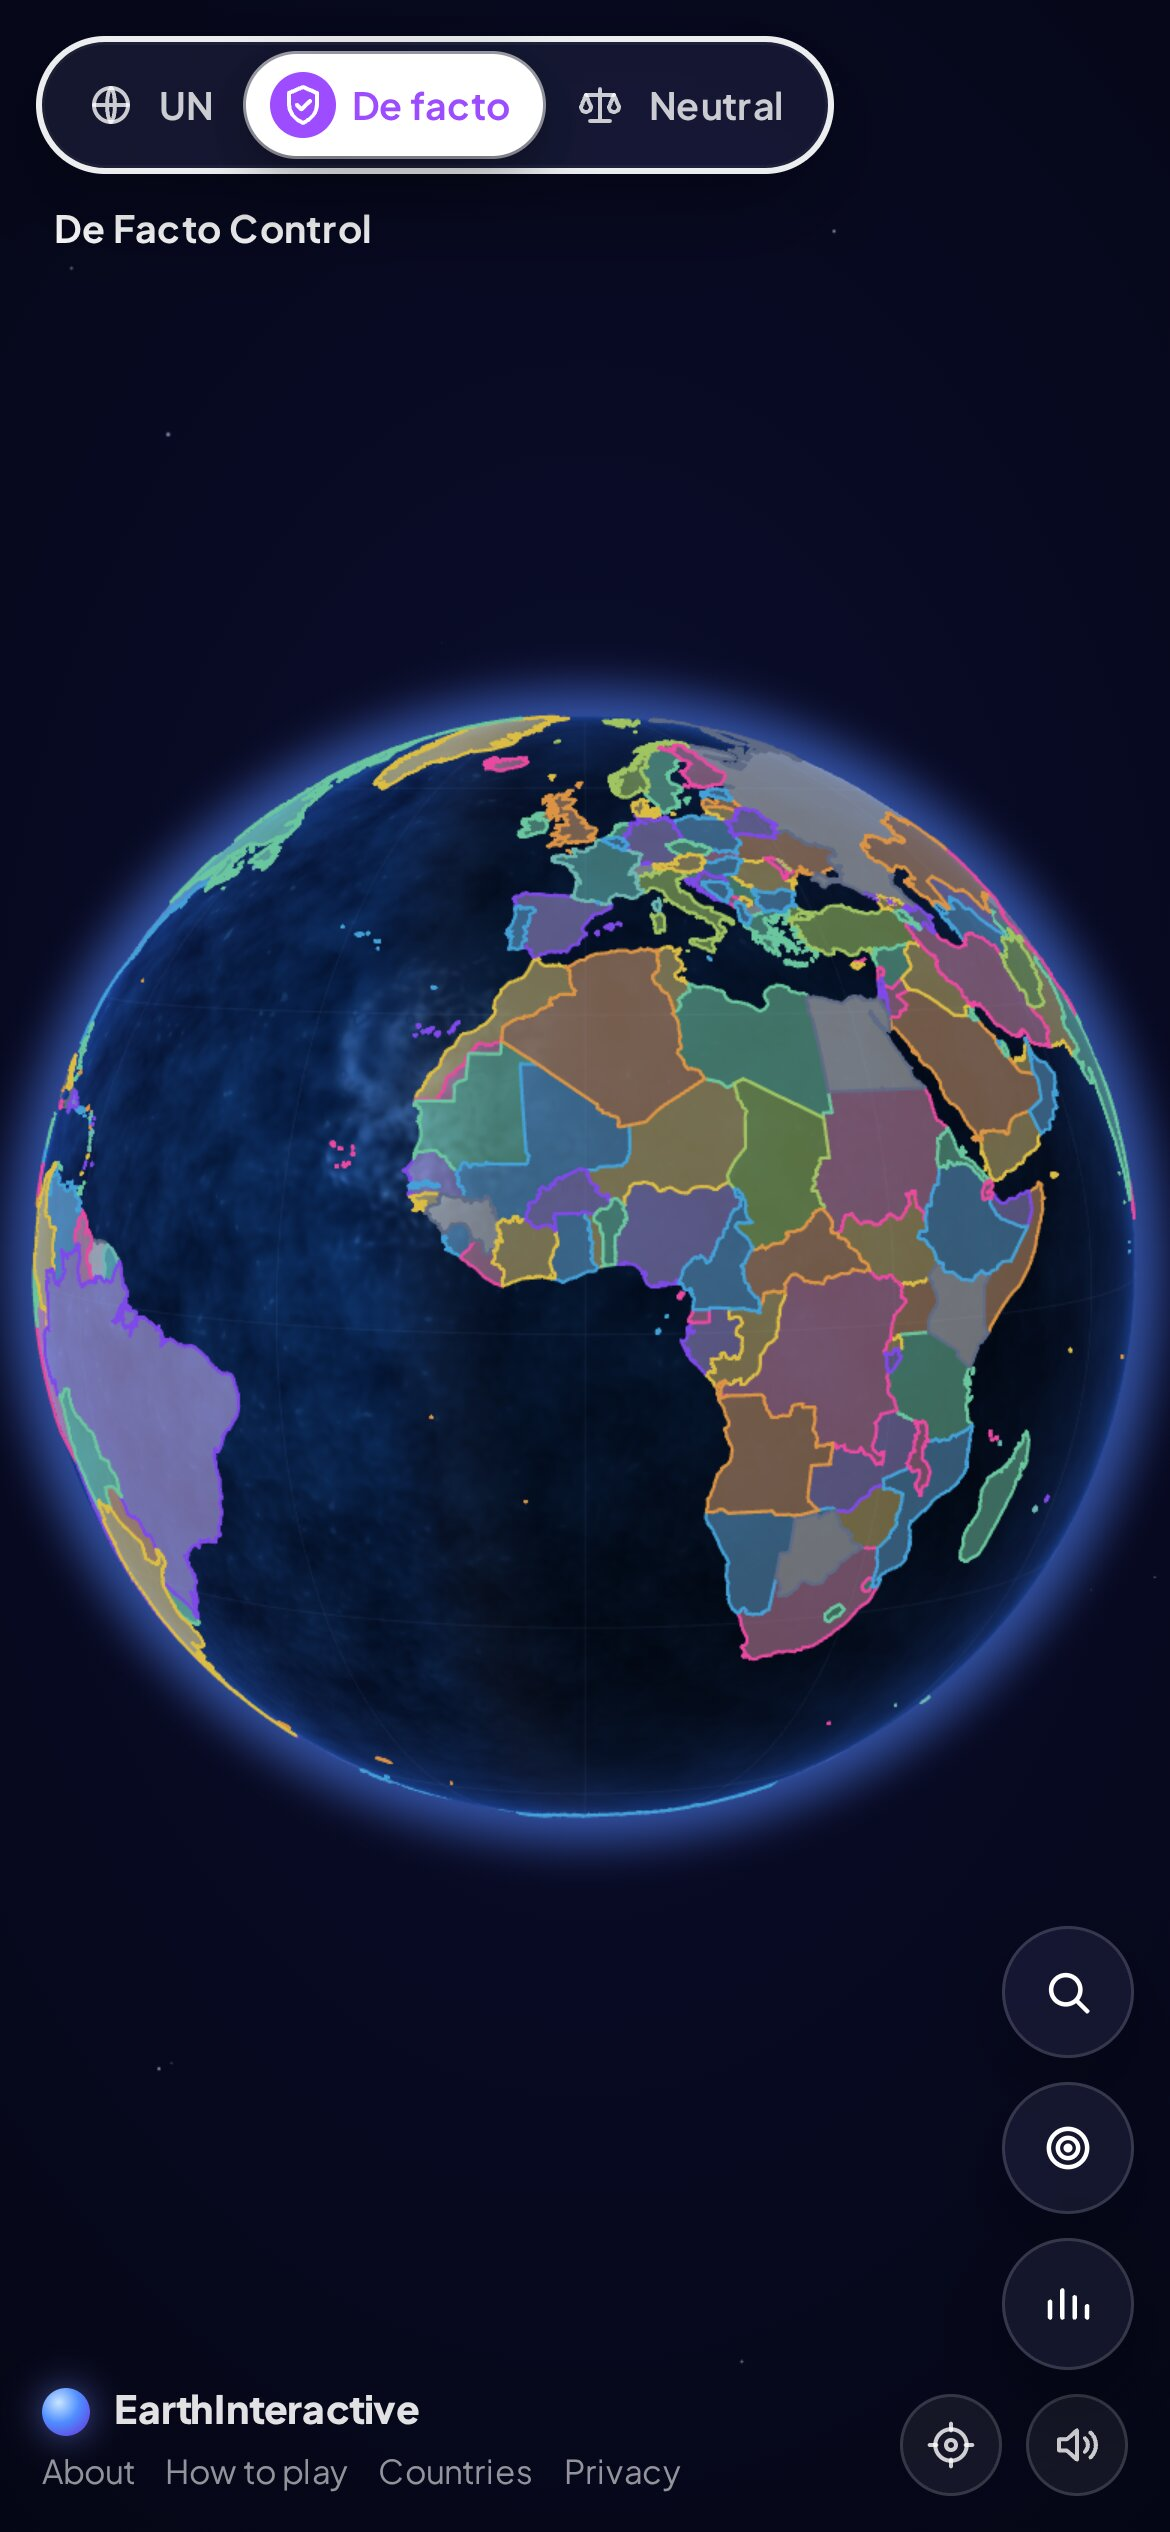
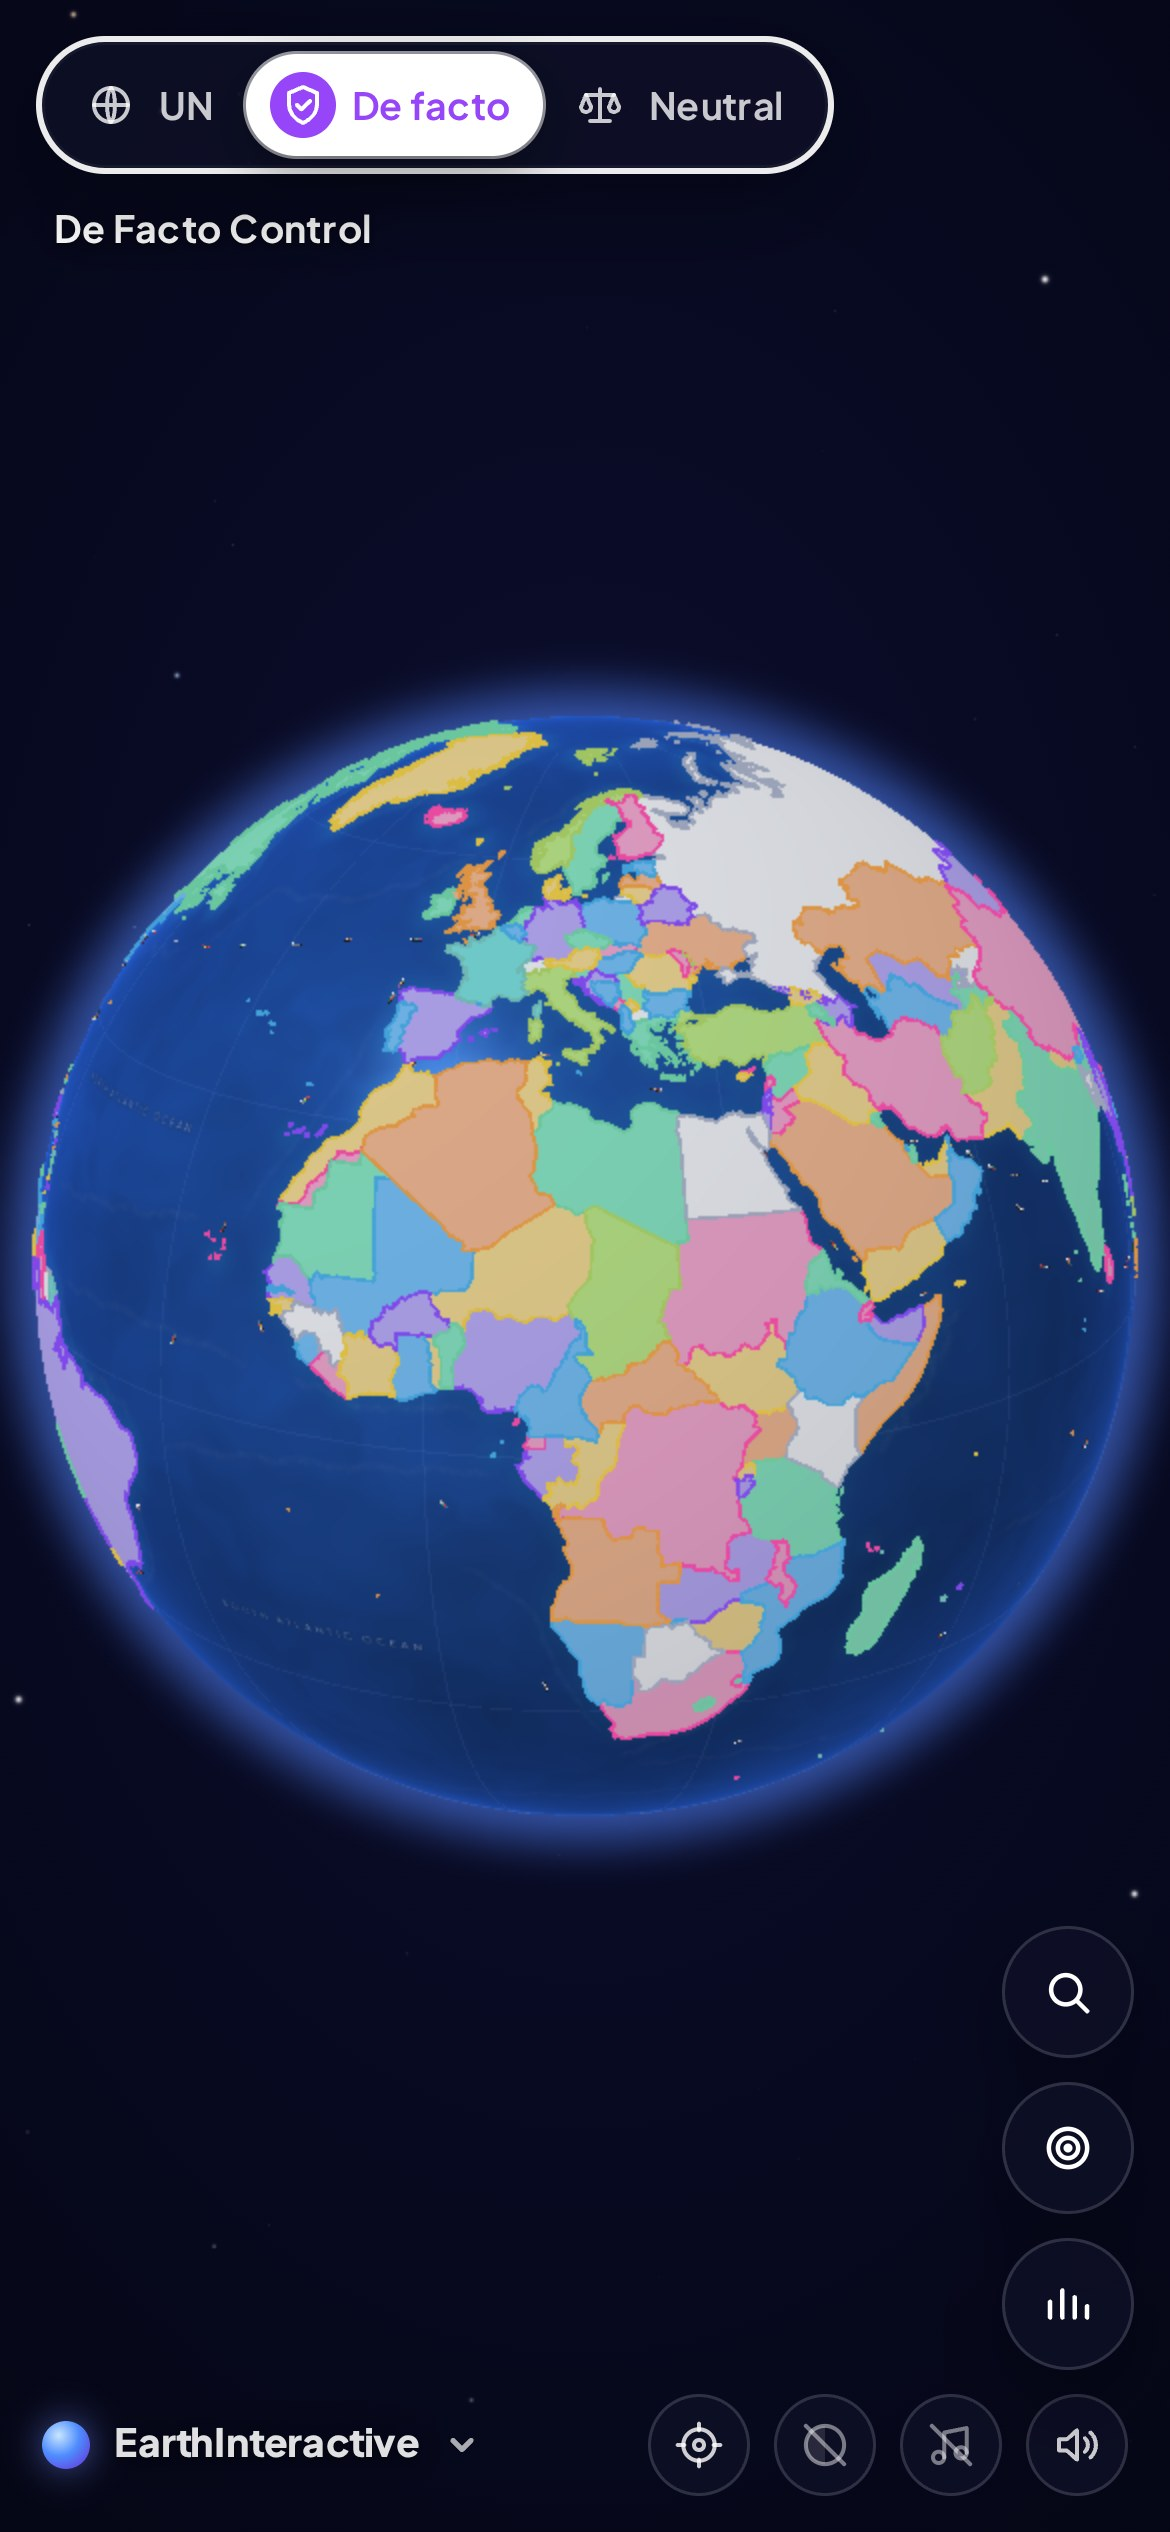
Compare framing fits portrait phones; offline page for unsaved text pages; fresh screenshots
- compare.layout() and flyToBoth() widen the framing by 1 / min(1, aspect): the field of view is vertical,
  so on a portrait phone small side-by-side pairs (Greenland and DR Congo) ran off both edges. Desktop
  framing is unchanged.
- sw.js: offline and not cached, a text page gets a small "You're offline" page linking to the globe
  (which works offline) instead of plain text or a cached 404 that would wrongly say "not found".
  Checked with the server stopped: globe, ?c=, ?compare=, ?play=, ?lens= all start from the cache.
- marketing/screenshots re-shot with the screenshots step; icons/screenshot-*.jpg for the manifest.

Claude-Session: https://claude.ai/code/session_01Nyr2is5iJQuUHHvNakVaWZ

diff --git a/sw.js b/sw.js
@@ -58,7 +58,7 @@ self.addEventListener('fetch', e => {
   }));
 });
 
-/** Text pages: try the network, keep a copy for offline, fall back to the copy (or the 404 page). */
+/** Text pages: try the network, keep a copy for offline, fall back to the copy (or a page pointing to the globe). */
 async function networkFirst(req) {
   const cache = await caches.open(CACHE);
   try {
@@ -66,7 +66,16 @@ async function networkFirst(req) {
     if (res.ok) cache.put(req, res.clone());
     return res;
   } catch {
-    return (await cache.match(req, { ignoreSearch: true })) || (await cache.match(new URL('404.html', self.registration.scope).href))
-      || new Response('You are offline and this page is not saved yet.', { status: 503, headers: { 'Content-Type': 'text/plain; charset=utf-8' } });
+    return (await cache.match(req, { ignoreSearch: true })) || offlinePage();
   }
+}
+
+/** Offline and never visited: say so, and offer the globe, which always works offline (not "page not found"). */
+function offlinePage() {
+  const home = self.registration.scope;
+  return new Response(`<!doctype html><html lang="en"><head><meta charset="utf-8"><meta name="viewport" content="width=device-width,initial-scale=1">
+<title>Offline · EarthInteractive</title><style>body{margin:0;min-height:100vh;display:grid;place-items:center;padding:24px;box-sizing:border-box;
+background:#03040b;color:#e8eaff;font:16px/1.5 system-ui,sans-serif;text-align:center}h1{font-size:22px;margin:0 0 8px}a{color:#c9a6ff}</style></head>
+<body><main><h1>You're offline</h1><p>This page isn't saved on this device yet.<br>The globe works offline: <a href="${home}">open the globe</a>.</p></main></body></html>`,
+  { status: 503, headers: { 'Content-Type': 'text/html; charset=utf-8' } });
 }

diff --git a/js/main.js b/js/main.js
@@ -221,7 +221,8 @@ function flyToBoth(point, o) {
   const a = point.clone().normalize(), b = compare.anchorFor(o).clone();
   const r = Math.sqrt(o.unit.area / Math.PI) / 6371, half = a.angleTo(b) / 2 + r;
   const mid = a.clone().add(b); if (mid.lengthSq() < 1e-6) mid.copy(b);
-  const dist = THREE.MathUtils.clamp(1 + half * 3.2, 2.1, Math.max(2.1, globe.fitDistance));
+  const narrow = Math.min(1, globe.camera.aspect); // portrait phones see less across: keep both ends on screen
+  const dist = THREE.MathUtils.clamp(1 + half / narrow * 3.2, 2.1, Math.max(2.1, globe.fitDistance));
   spin.stop(); globe.flyTo(mid.normalize(), dist, 1200);
 }
 // Games: a tap drops the pin on your guess and asks to confirm it, so a stray tap never costs a round

diff --git a/js/compare.js b/js/compare.js
@@ -146,7 +146,9 @@ export class Compare {
     // shift so the pair as a whole is centred on M
     const total = wA + gap + wB, left = -total / 2;
     const thA = left - A.ext.xmin, thB = left + wA + gap - B.ext.xmin;
-    const half = Math.max(total / 2, (Math.max(A.ext.ymax - A.ext.ymin, B.ext.ymax - B.ext.ymin)) * 0.75);
+    // a portrait screen sees less across than up and down: the pair sits side by side, so widen for it (phones)
+    const narrow = Math.min(1, this.globe.camera.aspect);
+    const half = Math.max(total / 2 / narrow, (Math.max(A.ext.ymax - A.ext.ymin, B.ext.ymax - B.ext.ymin)) * 0.75);
     return { M, a: at(thA), b: at(thB), half };
   }
 

diff --git a/CLAUDE.md b/CLAUDE.md
@@ -45,7 +45,7 @@ Unit keys are Natural Earth `ADM0_A3` codes (e.g. `FRA`), or `X_<SLUG>` for disp
 - **Data loads via `js/load.js`** (streamed fetch → blob `import()`), not a static import, so the loader can show progress. The first view is built with `layer.buildAsync()` in 12 ms slices.
 - **Phone layout**: the country card is a bottom sheet that opens as a 196 px peek; `js/sheet-drag.js` makes it (and the compare stats panel) follow the finger and settle by position + flick velocity. Below 1100 px wide the side ads give way to one bottom banner; the stage shrinks by `--ad-h` so nothing overlaps it. **A slot with no ad takes no room on the public site**; the grey placeholders show only on localhost (so QA and smoke still see the ad layout) or with `?ads=preview`.
 - **Draw order is fixed per country**: by type then index (`o.fillOrder` 1.x, `o.lineOrder` 2.x; 3 = highlighted). The batches keep exactly this order in their buffers (fills and stencil: first drawn wins; coincident shared borders: last drawn on top), so don't reorder them, e.g. into spatial chunks, without checking neighbours. Overlays sort by explicit `renderOrder`s (1.95 raised fill, `lineOrder` or 3 for borders, 2.99 glow). Don't go back to equal render orders: three.js would sort coincident shared borders by camera distance and they flicker as the globe turns. Phone borders use `simplifyShared()` (cut where the neighbour set changes, DP per stretch) so neighbours stay identical — independent per-country simplification makes double lines.
-- **Card placement**: on desktop the card docks on the right; `frameBesideCard()` then flies the globe so the country's main landmass (`compare.shapeFor(o)`: centroid + reach) fills the free space left of it (above the 196 px peek on phones), using the exact perspective projection. Pins, fly-tos and game distances use `compare.anchorFor(o)`: the main-landmass centre if it is on land, else the nearest point that is (France's whole-country centroid lies in Spain, Japan's main-landmass centre in the Sea of Japan; 34 countries per view needed this).
+- **Card placement**: on desktop the card docks on the right; `frameBesideCard()` then flies the globe so the country's main landmass (`compare.shapeFor(o)`: centroid + reach) fills the free space left of it (above the 196 px peek on phones), using the exact perspective projection. Camera framing that puts two things side by side (`compare.layout()`, `flyToBoth()`) divides the width by `min(1, camera.aspect)`: the 35° field of view is vertical, so a portrait phone sees less than half as much across. Pins, fly-tos and game distances use `compare.anchorFor(o)`: the main-landmass centre if it is on land, else the nearest point that is (France's whole-country centroid lies in Spain, Japan's main-landmass centre in the Sea of Japan; 34 countries per view needed this).
 - **View switch** clears the pin, tag and card: the same spot can belong to another country in the new view. **Games** switch to the UN view (`GAME_VIEW`) and restore the previous view on exit unless the player changed it.
 - **Games lock the view** (switching mid-round would lose its highlights; a toast explains) and hide the dock on both sizes. Compare keeps the dock on both sizes.
 - **Phone half-rate**: on the low tier `frame()` draws every other frame while nothing moves (no flight, zoom, spin, drag, compare animation or touch). Anything that animates on its own and must stay smooth needs to be added to that `calm` check.
@@ -92,7 +92,7 @@ Unit keys are Natural Earth `ADM0_A3` codes (e.g. `FRA`), or `X_<SLUG>` for disp
 - Quiz questions only use keys that are a `country` in **all three** views, so a game survives view switches.
 - **Population double counts**: Northern Cyprus and Somaliland are inside Cyprus's and Somalia's figures (`COUNTED_WITHIN` in `views.config.mjs` → `info[k].within`); their cards say so in the views that show them apart, and totals (e.g. world and region figures on the text pages) skip them.
 - **Text/SEO pages** (`docs/seo.md`): `about.html` … `contact.html` are hand-written; `countries/` (incl. `countries/region/`, `countries/ranking/`), `compare/`, `404.html`, `sitemap.xml`, `robots.txt`, `llms.txt` and the IndexNow key file are generated at deploy by `tools/build-pages.mjs _site` and never committed (`npm run build:pages` → `dist-pages/` to preview). Shared head/header/footer live in the script; after changing them run `node tools/build-pages.mjs --sync`. Config is `tools/site.config.mjs`; its `url` must equal `SITE_URL` in `js/site.js` and `goatcounter` must equal `GOATCOUNTER_CODE` in `js/analytics.js` (the build fails otherwise). Slugs are public URLs — don't rename them.
-- **Service worker navigation**: only the scope root / `index.html` is mapped to the cached globe; every other navigation is network-first with a cached fallback. Never map all navigations to `./` again — it would serve the globe for `/countries/...`.
+- **Service worker navigation**: only the scope root / `index.html` is mapped to the cached globe; every other navigation is network-first with a cached fallback. Never map all navigations to `./` again — it would serve the globe for `/countries/...`. Offline and not cached, a text page gets a small inline "You're offline" page that links to the globe (`offlinePage()`); there's no 404 fallback (404.html is generated at deploy and "not found" would be wrong). To test offline locally, the worker must register: it skips localhost, so patch that check for the first load (e.g. a Playwright route on `js/main.js`), then stop the server; `setOffline` alone doesn't cut the worker's own fetches.
 
 ## Workflow
 

diff --git a/CHANGELOG.md b/CHANGELOG.md
@@ -8,6 +8,8 @@ All notable changes to EarthInteractive are documented here.
 - **Tablets, small laptops and landscape phones**: the credit line no longer runs into the site links between 721 and 1179 px wide (a Credits link stands in, as on phones), the first-visit hint no longer covers the clock, and in games the panel moves to the top-right corner instead of covering the border-view switch.
 - **Short screens**: the country card on the right never runs off the bottom of the window or over the corner buttons; it scrolls inside instead (landscape phones, 768 px-tall laptops).
 - **320 px phones**: the brand menu and the four corner buttons fit side by side again.
+- **Comparisons on phones**: two small countries side by side (Greenland and DR Congo, Japan and Germany) no longer run off the sides of a portrait screen; the camera now allows for the narrow view. The line from a wrong guess to the answer in games gets the same care.
+- **Offline**: a text page you haven't opened before now says you're offline and links to the globe (which works offline), instead of a plain error or a misleading "page not found".
 - **Install dialog**: the app manifest now offers two screenshots (desktop and phone) for the browser's richer install sheet, and separate plain and maskable icons.
 - **No empty ad boxes**: until an ad network is connected, visitors no longer see grey "Advertisement" placeholders; the globe gets the space (phones gain the bottom strip). The layout can still be checked with `?ads=preview`.
 - **Faster hover**: moving the mouse over the globe restyles only the two countries involved, not all of them.
